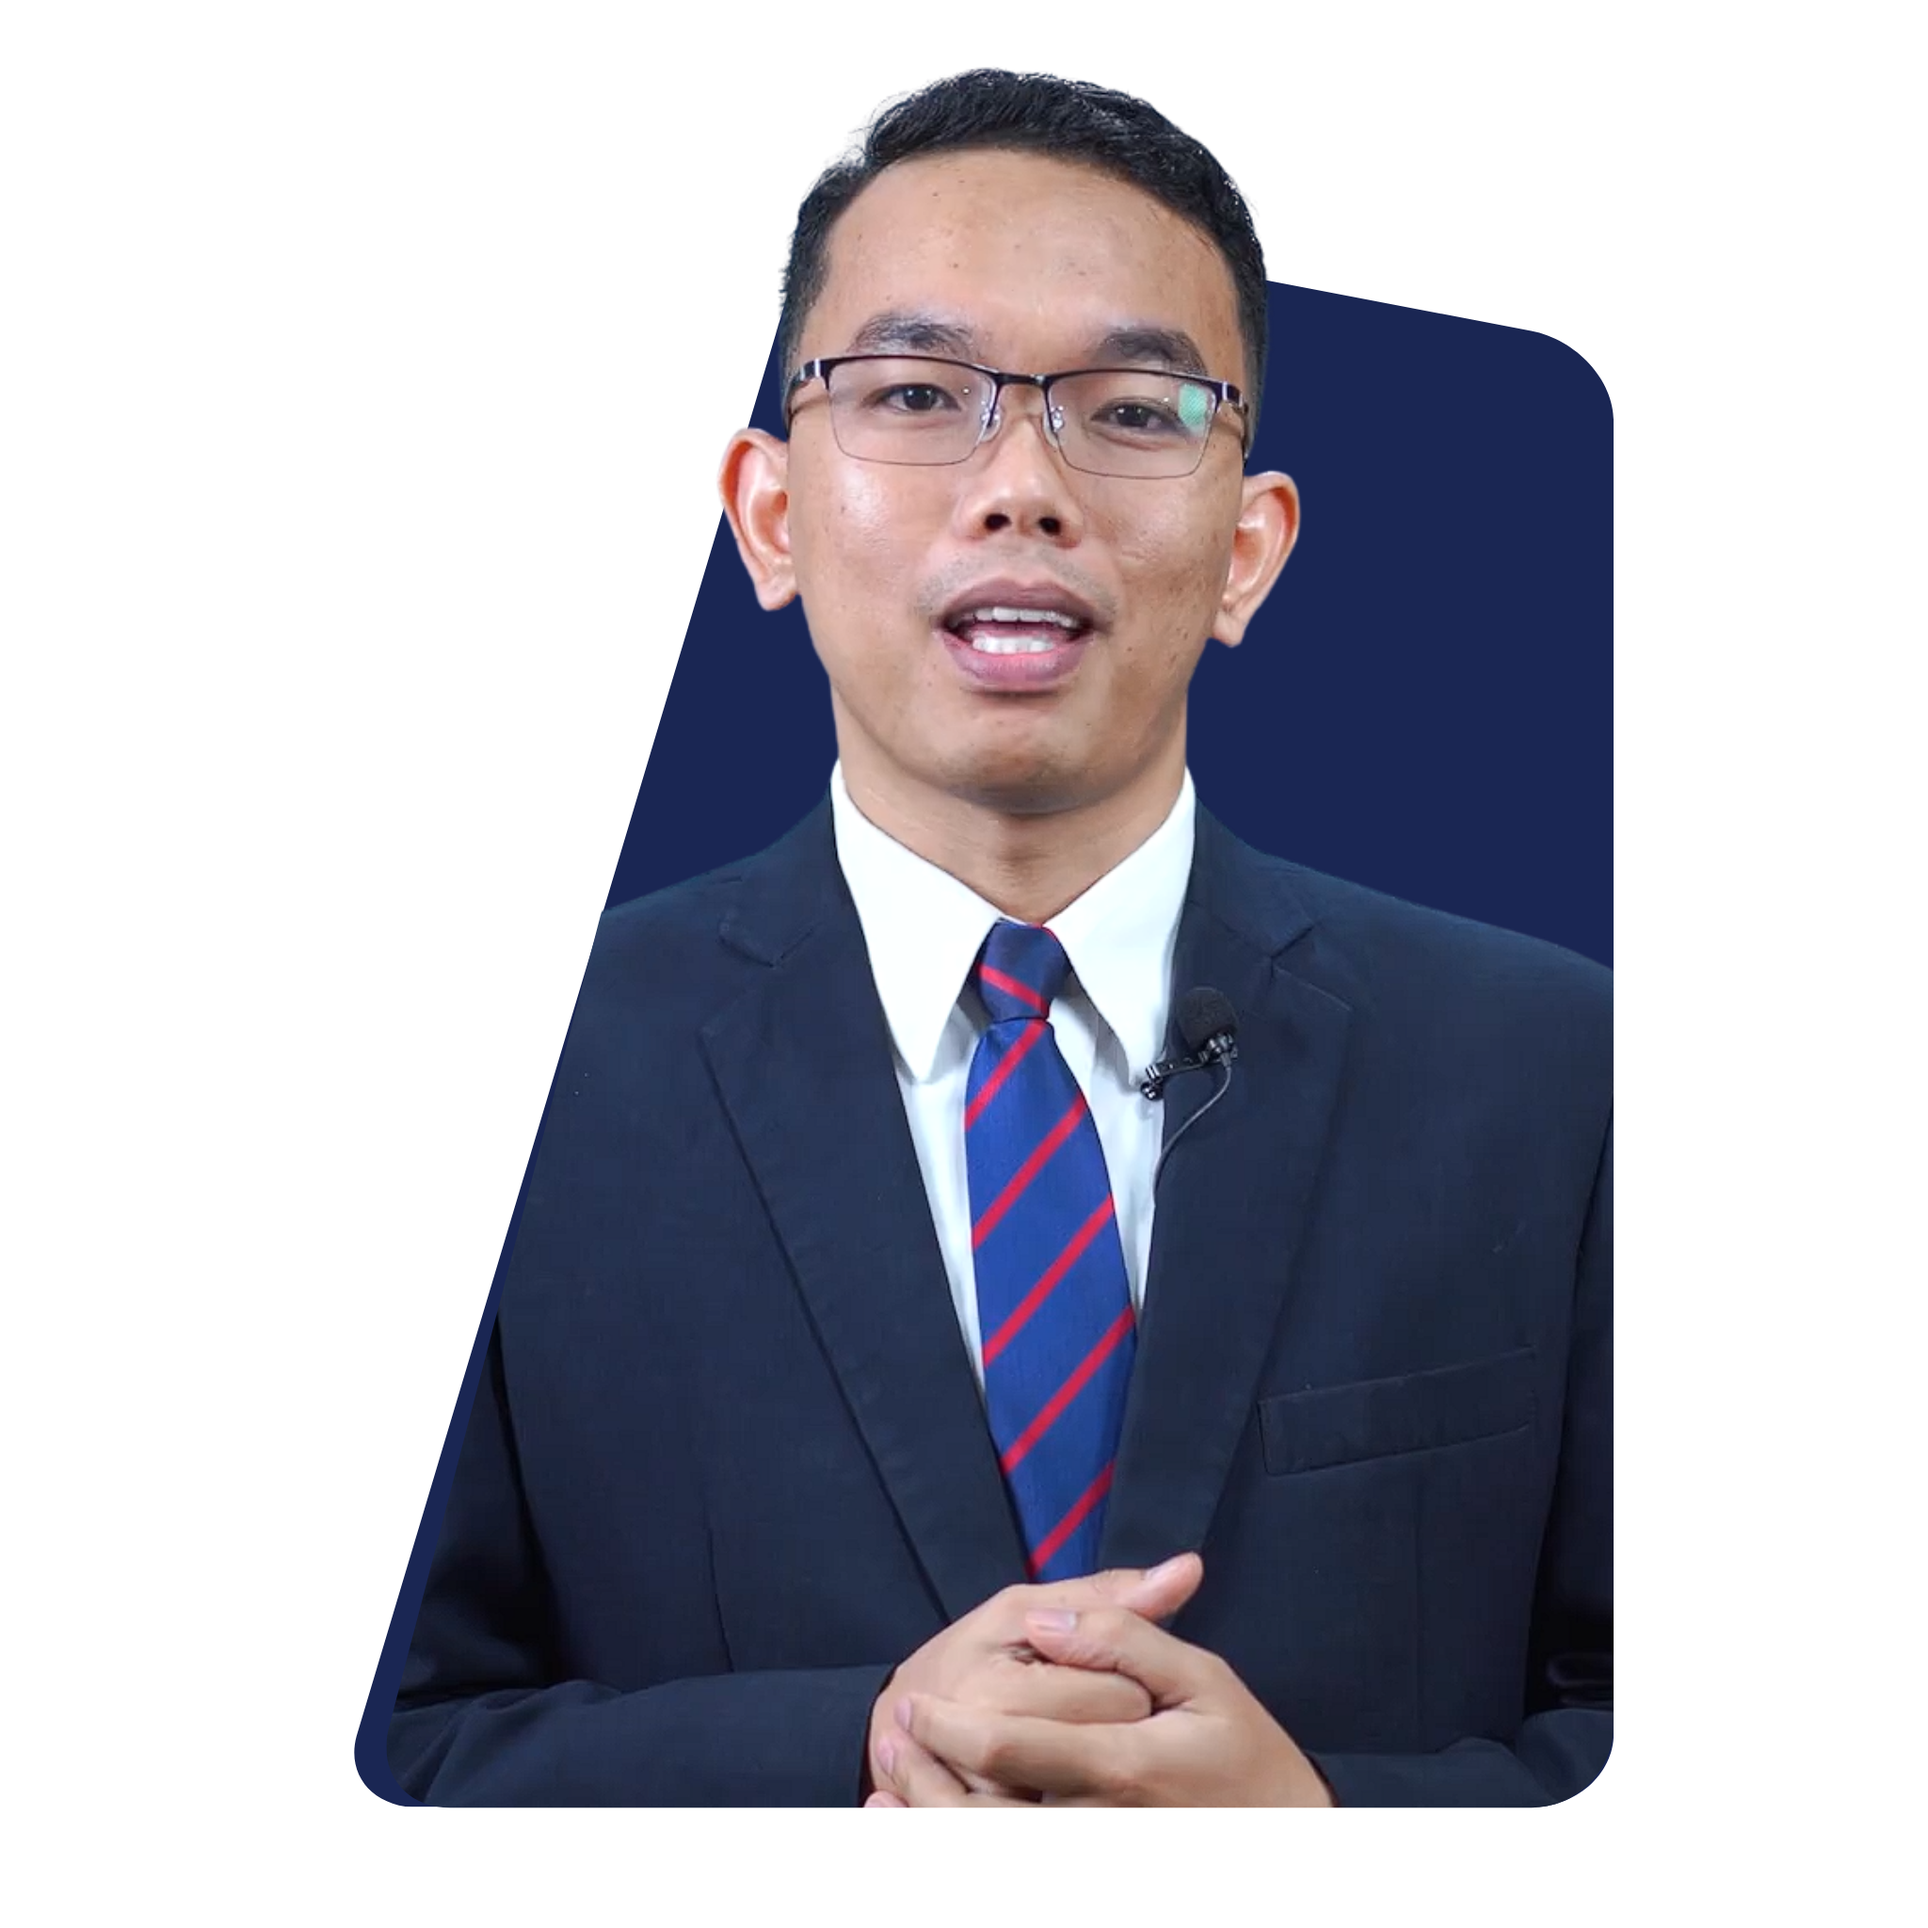
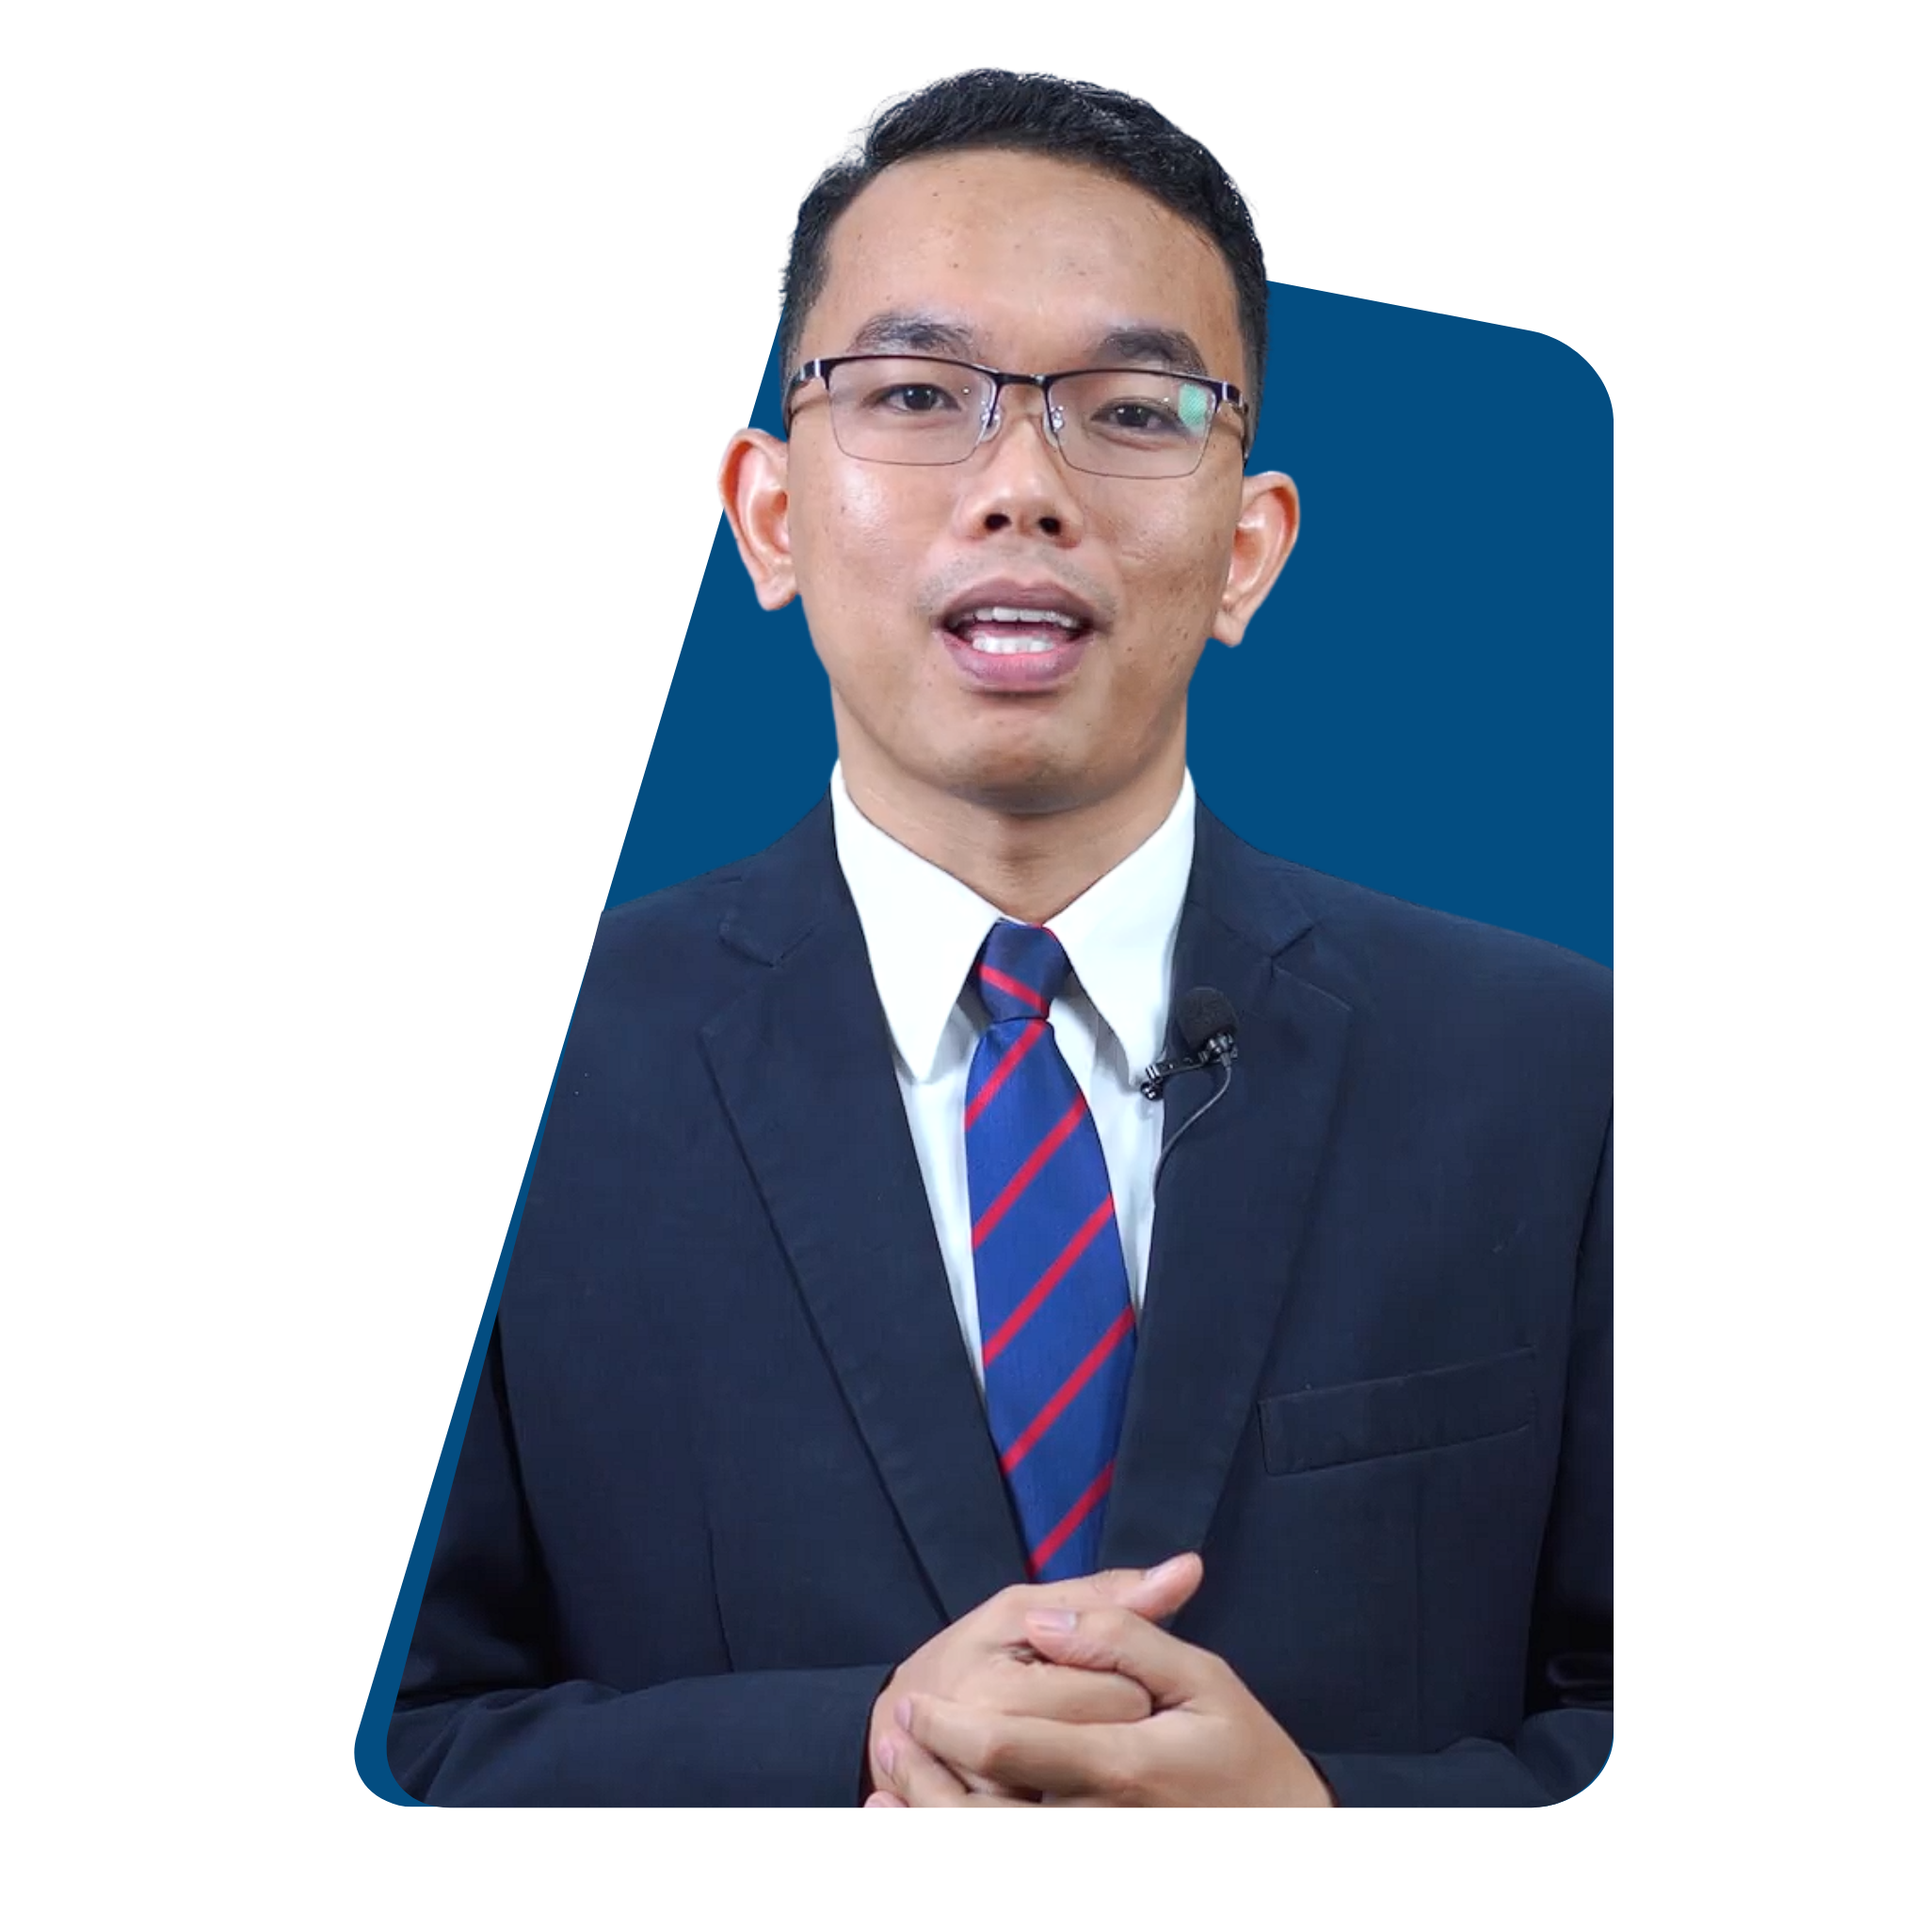
saddsad

diff --git a/index.html b/index.html
@@ -446,7 +446,7 @@ Find complete information about the theme, submission guidelines, timeline, and 
 
     <a href="https://wa.me/6285361847910"
        class="wa-hover-btn"
-       target="_blank">
+       target="_blank" style="color: white;">
         <i class="fab fa-whatsapp"></i>
         Chat me on WhatsApp
     </a>
@@ -466,7 +466,7 @@ Find complete information about the theme, submission guidelines, timeline, and 
 
     <a href="https://wa.me/6282284254218"
        class="wa-hover-btn"
-       target="_blank">
+       target="_blank" style="color: white;">
       <i class="fab fa-whatsapp"></i>
       Chat me on WhatsApp
     </a>

diff --git a/stylesdh.css b/stylesdh.css
@@ -49,7 +49,7 @@ Table of contents
 	--dark: #3047a1;
 	--dark-secondary: #5b81ab;
 	--white: #ffffff;
-	--color-primary: #192553;
+	--color-primary: #034d81;
 	--color-secondary: #102053;
 	--color-heading: #232323;
 	--color-paragraph: #666666;
@@ -330,7 +330,7 @@ p {
 .wa-hover-btn {
   position: absolute;
   inset: 0;
-  background: rgba(255, 255, 255, 0.833);
+  background: #0e307fd2;
 
   display: flex;
   align-items: center;

diff --git a/stylesdhjourney.css b/stylesdhjourney.css
@@ -49,7 +49,7 @@ Table of contents
 	--dark: #192553;
 	--dark-secondary: #5b81ab;
 	--white: #ffffff;
-	--color-primary: #192553;
+	--color-primary: #034d81;
 	--color-secondary: #102053;
 	--color-heading: #232323;
 	--color-paragraph: #666666;
